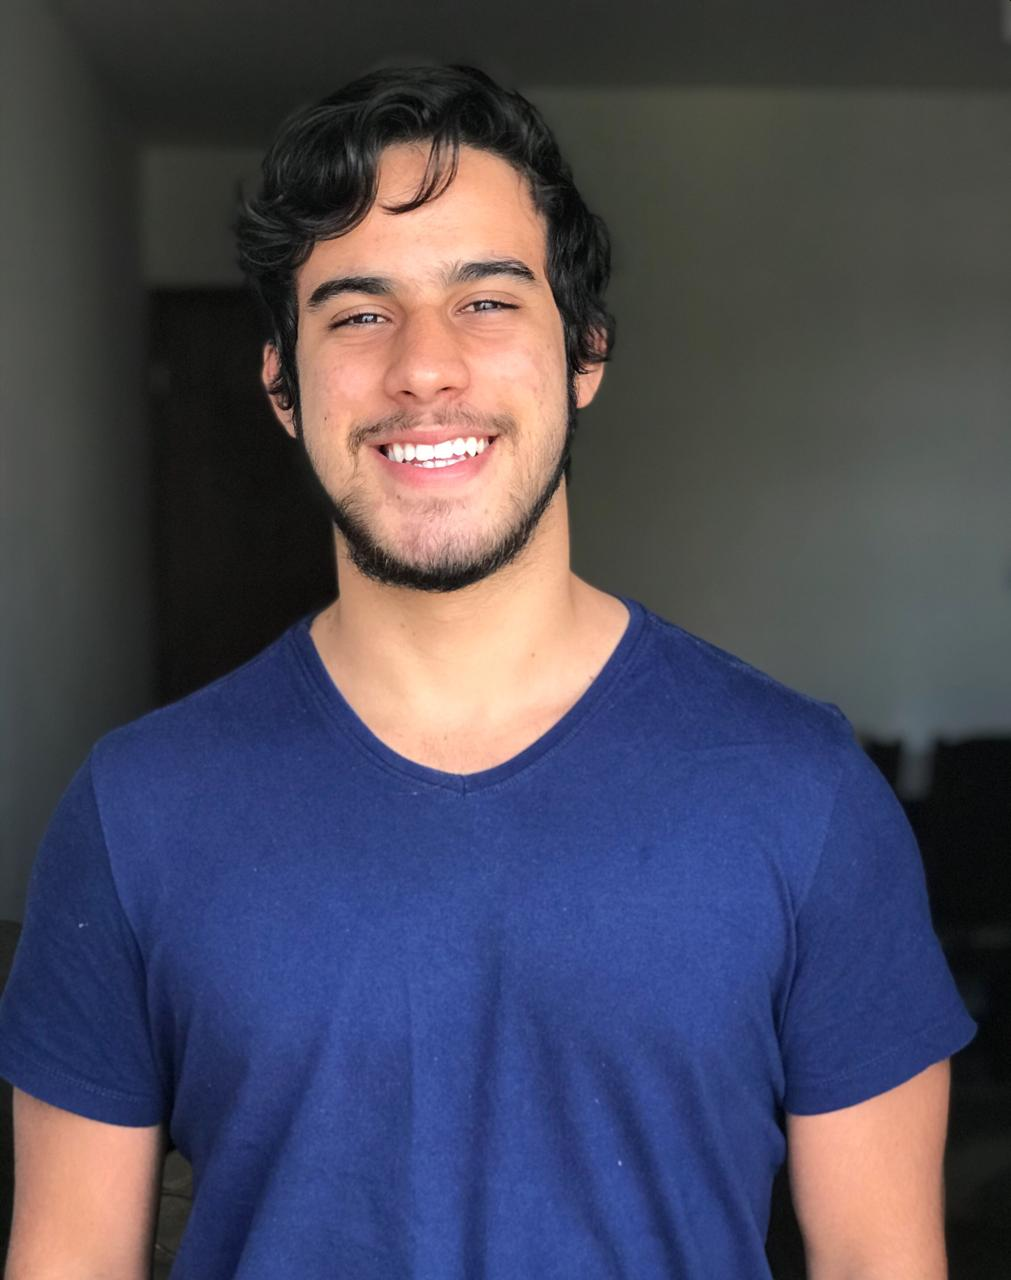
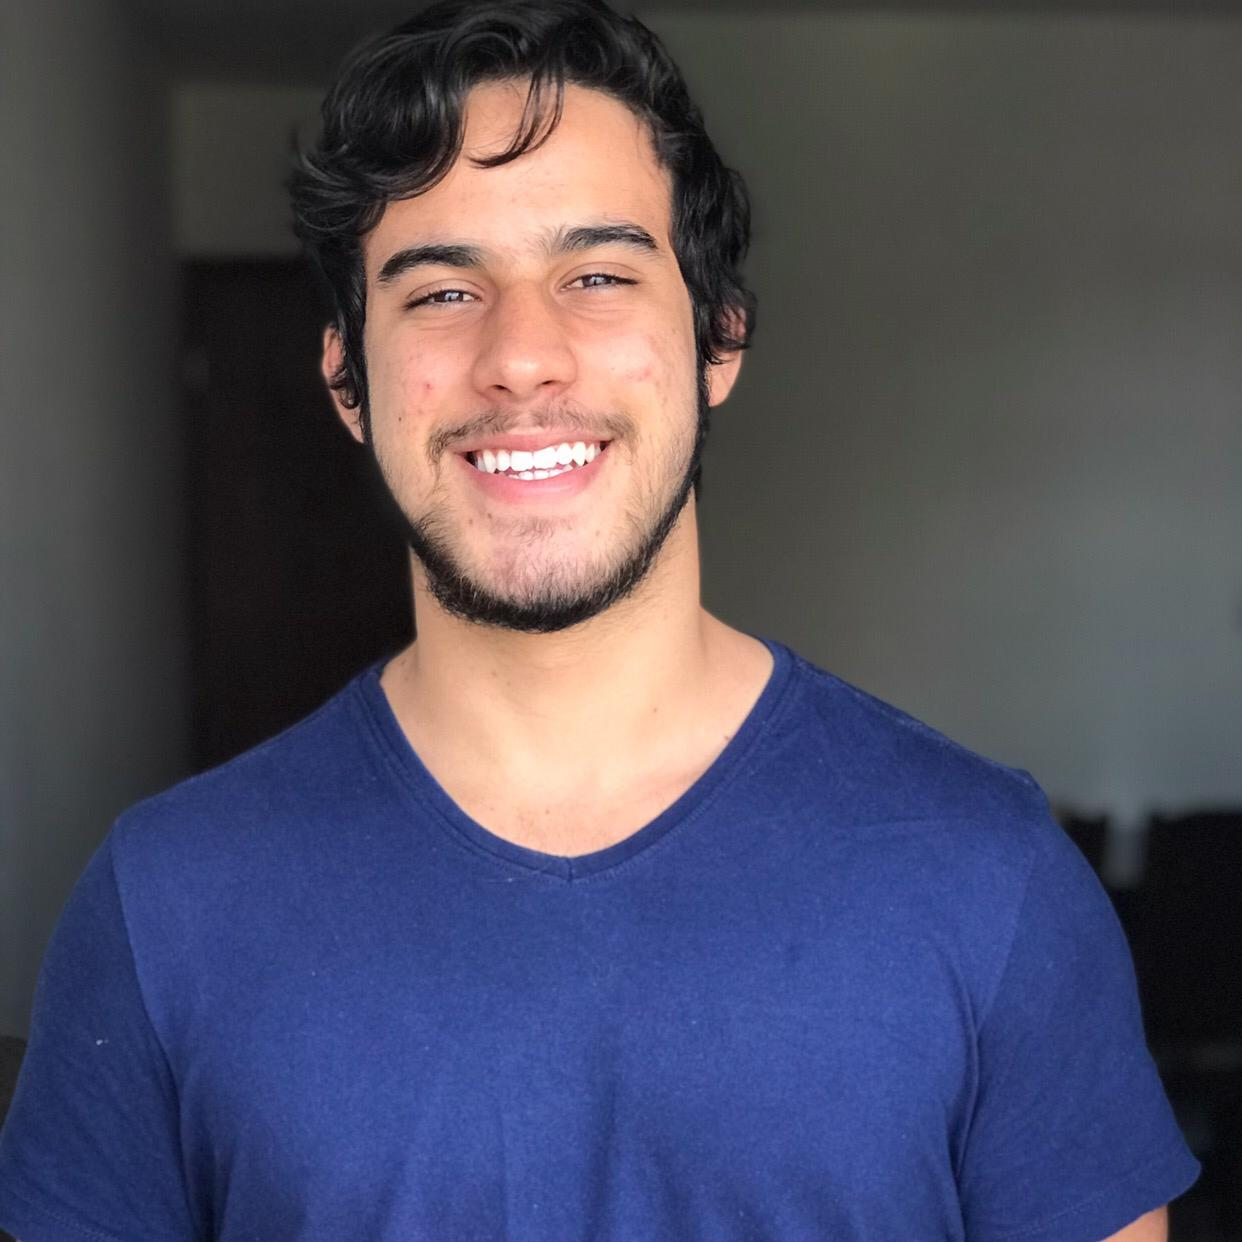
ajustando imagem de perfil, ajustando as cores do site, linkando redes sociais, começando a adicionar experiências e dados sobre minha formação acadêmica

diff --git a/index.html b/index.html
@@ -19,7 +19,7 @@
         <!-- Navigation-->
         <nav class="navbar navbar-expand-lg navbar-dark bg-primary fixed-top" id="sideNav">
             <a class="navbar-brand js-scroll-trigger" href="#page-top">
-                <span class="d-block d-lg-none">Clarence Taylor</span>
+                <span class="d-block d-lg-none">Eduardo Wanderley</span>
                 <span class="d-none d-lg-block"><img class="img-fluid img-profile rounded-circle mx-auto mb-2" src="assets/img/profile.jpeg" alt="..." /></span>
             </a>
             <button class="navbar-toggler" type="button" data-bs-toggle="collapse" data-bs-target="#navbarResponsive" aria-controls="navbarResponsive" aria-expanded="false" aria-label="Toggle navigation"><span class="navbar-toggler-icon"></span></button>
@@ -40,17 +40,17 @@
             <section class="resume-section" id="about">
                 <div class="resume-section-content">
                     <h1 class="mb-0">
-                        Clarence
-                        <span class="text-primary">Taylor</span>
+                        Eduardo
+                        <span class="text-primary">Wanderley</span>
                     </h1>
                     <div class="subheading mb-5">
-                        3542 Berry Street · Cheyenne Wells, CO 80810 · (317) 585-8468 ·
-                        <a href="mailto:name@email.com">name@email.com</a>
+                        Salvador - BA · 
+                        <a href="mailto:eduardowanderleydev@email.com">eduardowanderleydev@email.com</a>
                     </div>
                     <p class="lead mb-5">I am experienced in leveraging agile frameworks to provide a robust synopsis for high level overviews. Iterative approaches to corporate strategy foster collaborative thinking to further the overall value proposition.</p>
                     <div class="social-icons">
-                        <a class="social-icon" href="#!"><i class="fab fa-linkedin-in"></i></a>
-                        <a class="social-icon" href="#!"><i class="fab fa-github"></i></a>
+                        <a class="social-icon" href="https://www.linkedin.com/in/eduardowanderleydev/"><i class="fab fa-linkedin-in"></i></a>
+                        <a class="social-icon" href="https://github.com/eduardowanderleydev"><i class="fab fa-github"></i></a>
                         <a class="social-icon" href="#!"><i class="fab fa-twitter"></i></a>
                         <a class="social-icon" href="#!"><i class="fab fa-facebook-f"></i></a>
                     </div>
@@ -63,35 +63,11 @@
                     <h2 class="mb-5">Experience</h2>
                     <div class="d-flex flex-column flex-md-row justify-content-between mb-5">
                         <div class="flex-grow-1">
-                            <h3 class="mb-0">Senior Web Developer</h3>
-                            <div class="subheading mb-3">Intelitec Solutions</div>
+                            <h3 class="mb-0">Intern Developer</h3>
+                            <div class="subheading mb-3">Algar Telecom</div>
                             <p>Bring to the table win-win survival strategies to ensure proactive domination. At the end of the day, going forward, a new normal that has evolved from generation X is on the runway heading towards a streamlined cloud solution. User generated content in real-time will have multiple touchpoints for offshoring.</p>
                         </div>
-                        <div class="flex-shrink-0"><span class="text-primary">March 2013 - Present</span></div>
-                    </div>
-                    <div class="d-flex flex-column flex-md-row justify-content-between mb-5">
-                        <div class="flex-grow-1">
-                            <h3 class="mb-0">Web Developer</h3>
-                            <div class="subheading mb-3">Intelitec Solutions</div>
-                            <p>Capitalize on low hanging fruit to identify a ballpark value added activity to beta test. Override the digital divide with additional clickthroughs from DevOps. Nanotechnology immersion along the information highway will close the loop on focusing solely on the bottom line.</p>
-                        </div>
-                        <div class="flex-shrink-0"><span class="text-primary">December 2011 - March 2013</span></div>
-                    </div>
-                    <div class="d-flex flex-column flex-md-row justify-content-between mb-5">
-                        <div class="flex-grow-1">
-                            <h3 class="mb-0">Junior Web Designer</h3>
-                            <div class="subheading mb-3">Shout! Media Productions</div>
-                            <p>Podcasting operational change management inside of workflows to establish a framework. Taking seamless key performance indicators offline to maximise the long tail. Keeping your eye on the ball while performing a deep dive on the start-up mentality to derive convergence on cross-platform integration.</p>
-                        </div>
-                        <div class="flex-shrink-0"><span class="text-primary">July 2010 - December 2011</span></div>
-                    </div>
-                    <div class="d-flex flex-column flex-md-row justify-content-between">
-                        <div class="flex-grow-1">
-                            <h3 class="mb-0">Web Design Intern</h3>
-                            <div class="subheading mb-3">Shout! Media Productions</div>
-                            <p>Collaboratively administrate empowered markets via plug-and-play networks. Dynamically procrastinate B2C users after installed base benefits. Dramatically visualize customer directed convergence without revolutionary ROI.</p>
-                        </div>
-                        <div class="flex-shrink-0"><span class="text-primary">September 2008 - June 2010</span></div>
+                        <div class="flex-shrink-0"><span class="text-primary">May 2021 - Present</span></div>
                     </div>
                 </div>
             </section>
@@ -102,20 +78,11 @@
                     <h2 class="mb-5">Education</h2>
                     <div class="d-flex flex-column flex-md-row justify-content-between mb-5">
                         <div class="flex-grow-1">
-                            <h3 class="mb-0">University of Colorado Boulder</h3>
-                            <div class="subheading mb-3">Bachelor of Science</div>
-                            <div>Computer Science - Web Development Track</div>
-                            <p>GPA: 3.23</p>
+                            <h3 class="mb-0">Universidade Católica do Salvador</h3>
+                            <div class="subheading mb-3">Bachelor's degree in Software Engineering</div>
+
                         </div>
-                        <div class="flex-shrink-0"><span class="text-primary">August 2006 - May 2010</span></div>
-                    </div>
-                    <div class="d-flex flex-column flex-md-row justify-content-between">
-                        <div class="flex-grow-1">
-                            <h3 class="mb-0">James Buchanan High School</h3>
-                            <div class="subheading mb-3">Technology Magnet Program</div>
-                            <p>GPA: 3.56</p>
-                        </div>
-                        <div class="flex-shrink-0"><span class="text-primary">August 2002 - May 2006</span></div>
+                        <div class="flex-shrink-0"><span class="text-primary">January 2020 - December 2024</span></div>
                     </div>
                 </div>
             </section>

diff --git a/css/styles.css b/css/styles.css
@@ -24,7 +24,7 @@
   --bs-white: #fff;
   --bs-gray: #6c757d;
   --bs-gray-dark: #343a40;
-  --bs-primary: #bd5d38;
+  --bs-primary: #2eaa92;
   --bs-secondary: #6c757d;
   --bs-success: #198754;
   --bs-info: #0dcaf0;
@@ -209,11 +209,11 @@ sup {
 }
 
 a {
-  color: #bd5d38;
+  color: #214575;
   text-decoration: underline;
 }
 a:hover {
-  color: #974a2d;
+  color: #214575;
 }
 
 a:not([href]):not([class]), a:not([href]):not([class]):hover {
@@ -7353,7 +7353,7 @@ textarea.form-control-lg {
 
 /* rtl:end:remove */
 .text-primary {
-  color: #bd5d38 !important;
+  color: #203F69 !important;
 }
 
 .text-secondary {
@@ -7409,7 +7409,7 @@ textarea.form-control-lg {
 }
 
 .bg-primary {
-  background-color: #bd5d38 !important;
+  background-color: #203F69 !important;
 }
 
 .bg-secondary {
